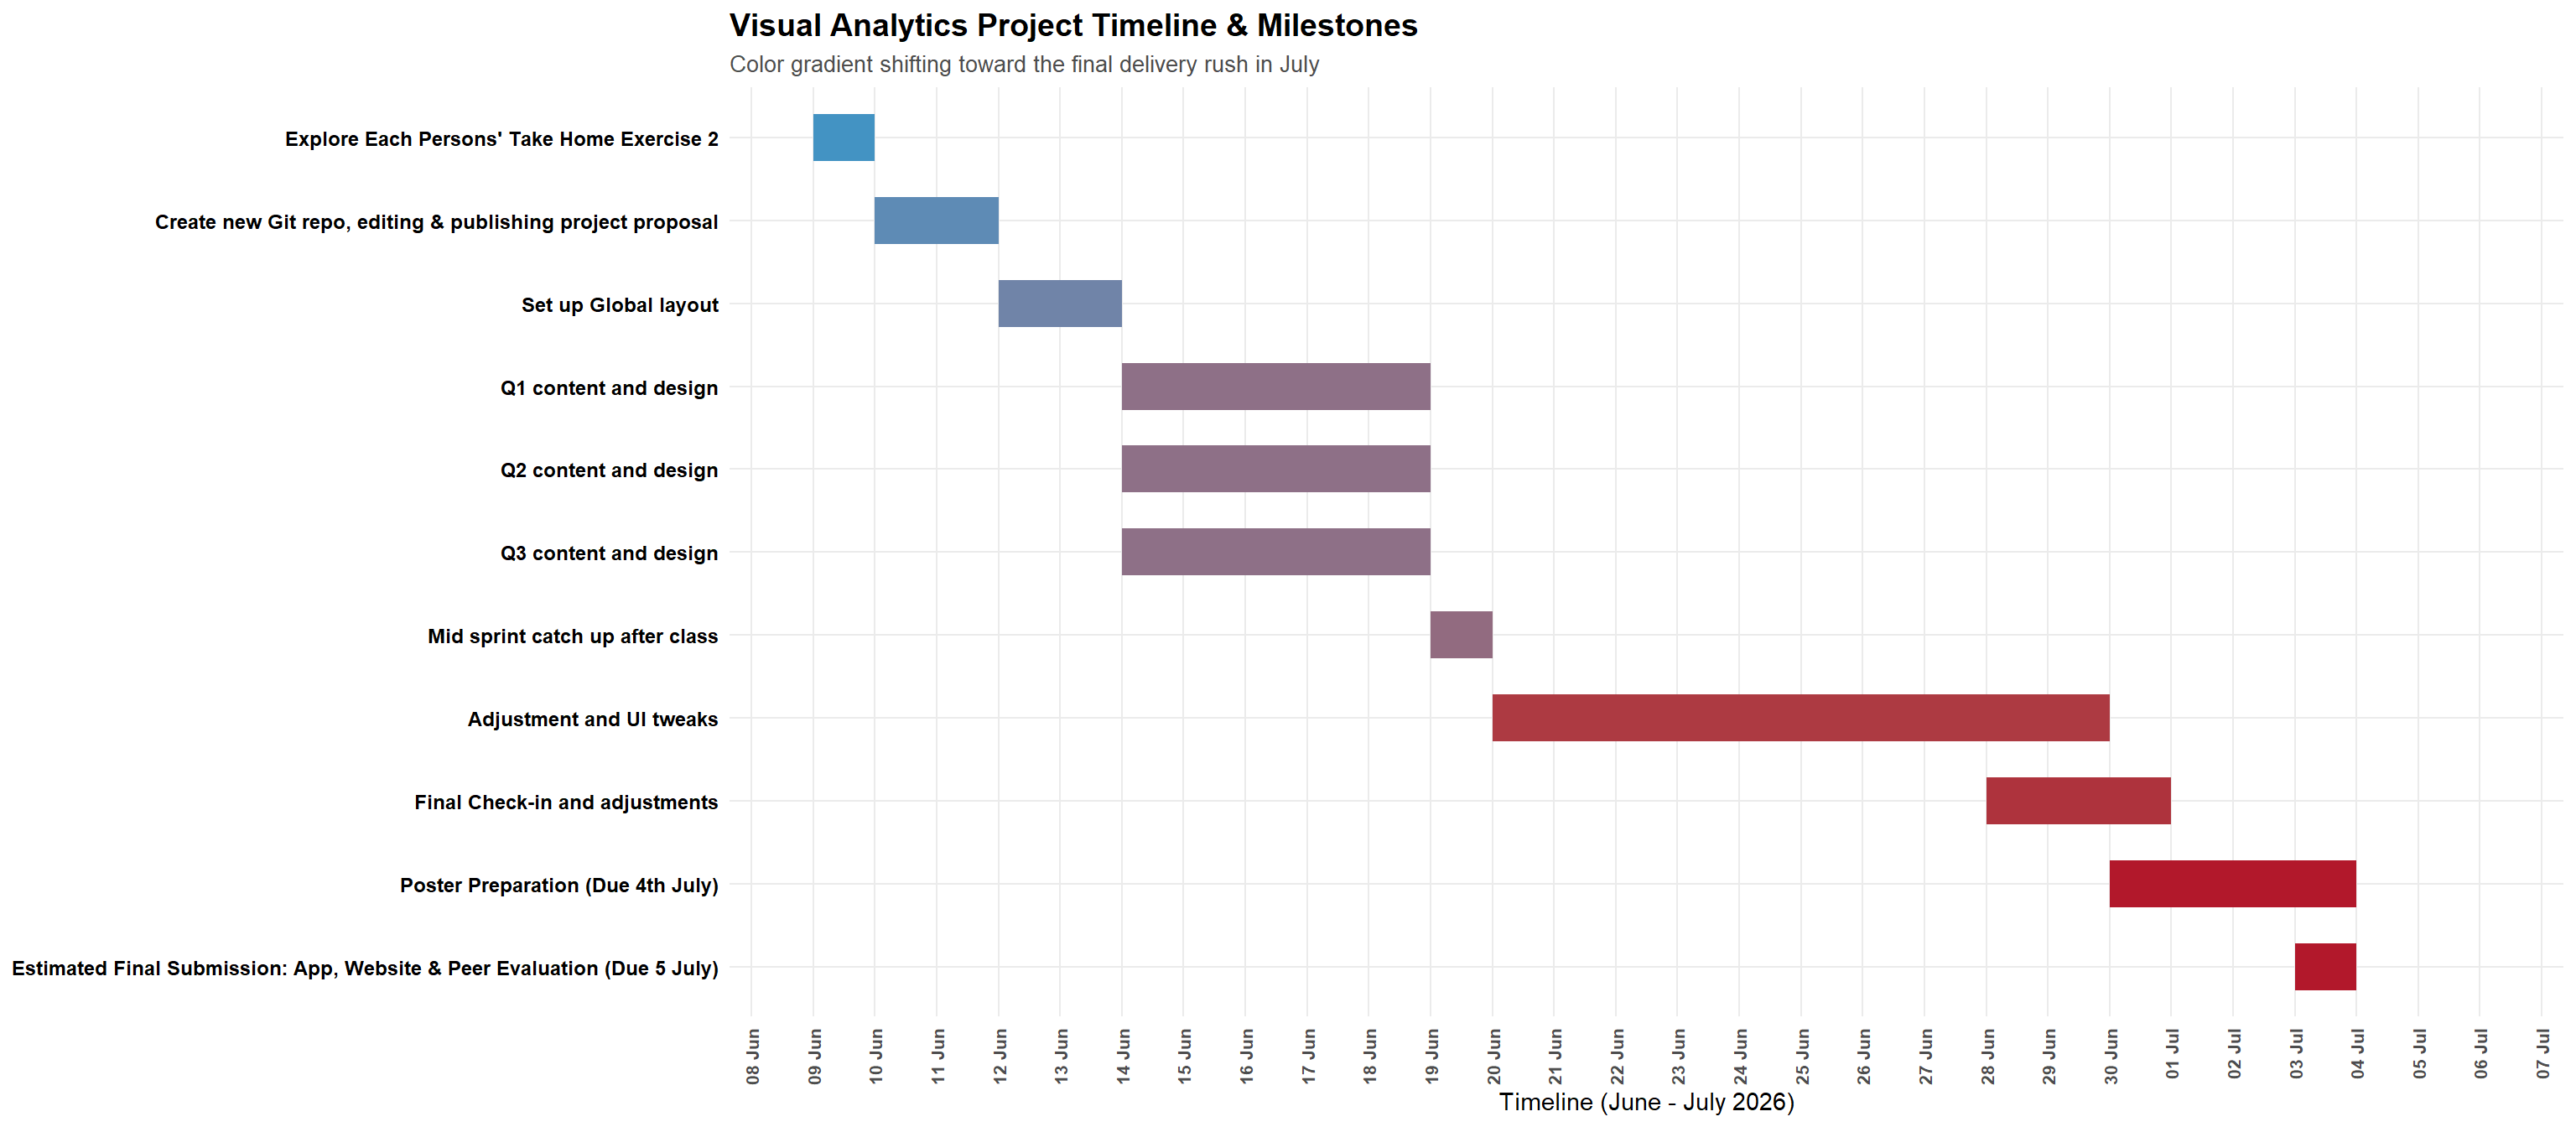
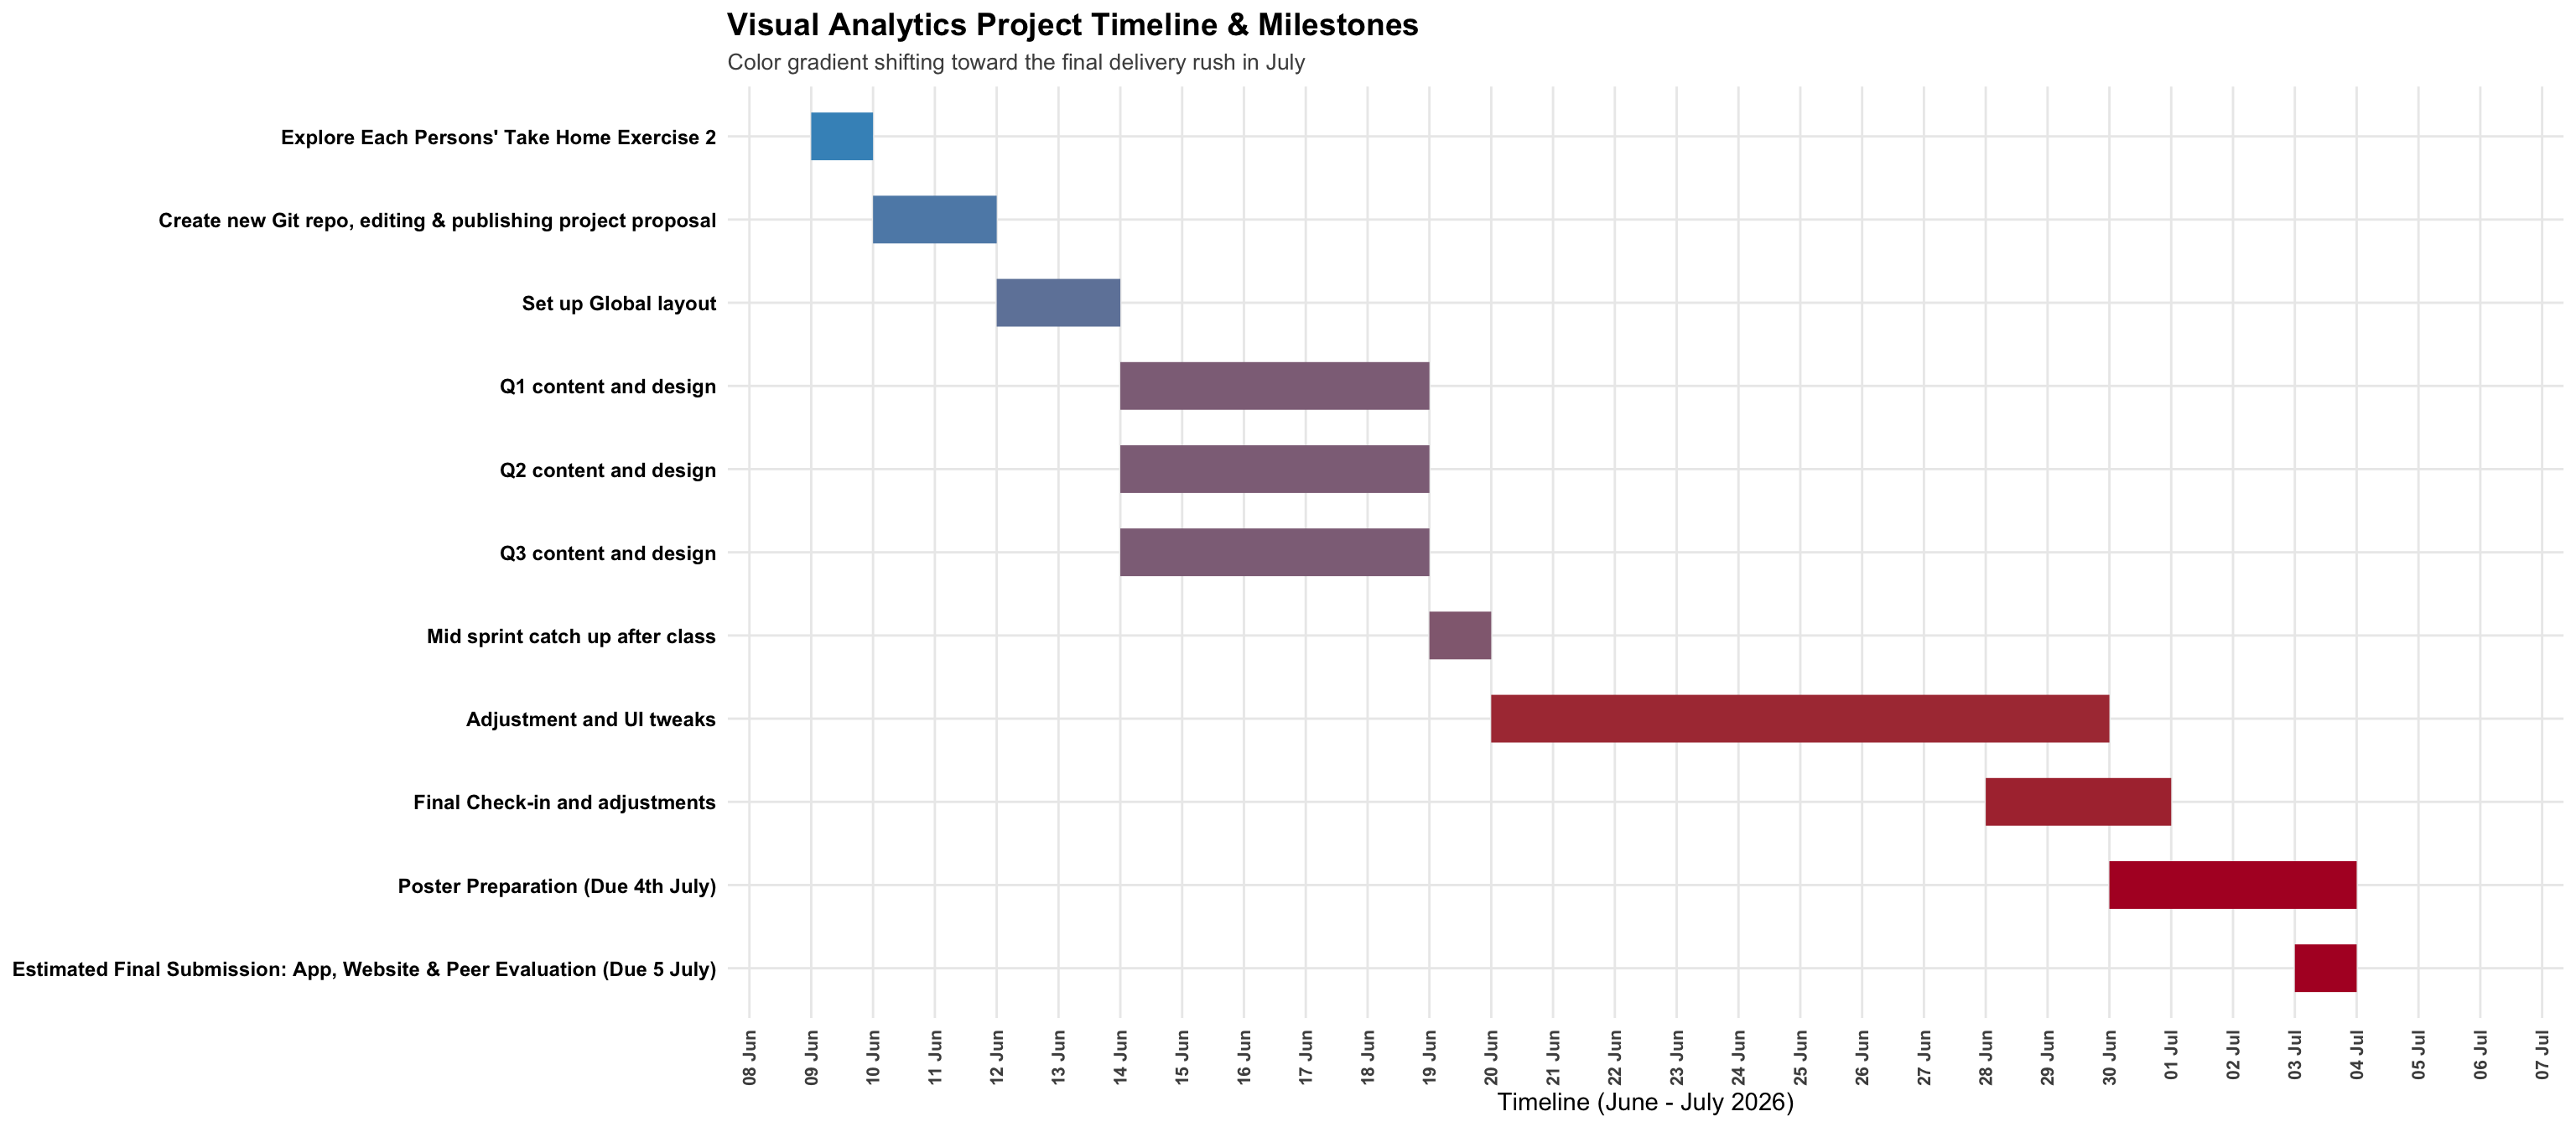
Added in the first meeting minutes from 10 June discussion.

diff --git a/docs/index.html b/docs/index.html
@@ -42,7 +42,7 @@ ul.task-list li input[type="checkbox"] {
 <link href="site_libs/quarto-html/quarto-syntax-highlighting-7f8f88aac4f3542376d5c11b86a4c14d.css" rel="stylesheet" id="quarto-text-highlighting-styles">
 <script src="site_libs/bootstrap/bootstrap.min.js"></script>
 <link href="site_libs/bootstrap/bootstrap-icons.css" rel="stylesheet">
-<link href="site_libs/bootstrap/bootstrap-f7199533a4293d4f23abe1a1e53f7ce7.min.css" rel="stylesheet" append-hash="true" id="quarto-bootstrap" data-mode="light">
+<link href="site_libs/bootstrap/bootstrap-b4b499223ef5e56cd2d4017a9fc608c0.min.css" rel="stylesheet" append-hash="true" id="quarto-bootstrap" data-mode="light">
 <script id="quarto-search-options" type="application/json">{
   "location": "navbar",
   "copy-button": false,
@@ -120,11 +120,19 @@ ul.task-list li input[type="checkbox"] {
 </i> 
 <span class="menu-text">Poster</span></a>
   </li>  
-  <li class="nav-item">
-    <a class="nav-link" href="./Meeting_Minutes.qmd"> <i class="bi bi-journal-text" role="img">
+  <li class="nav-item dropdown ">
+    <a class="nav-link dropdown-toggle" href="#" id="nav-menu-meeting-minutes" role="link" data-bs-toggle="dropdown" aria-expanded="false">
+      <i class="bi bi-journal-text" role="img">
 </i> 
-<span class="menu-text">Meeting Minutes</span></a>
+ <span class="menu-text">Meeting Minutes</span>
+    </a>
+    <ul class="dropdown-menu" aria-labelledby="nav-menu-meeting-minutes">    
+        <li>
+    <a class="dropdown-item" href="./Meeting_Minutes_Day1.html">
+ <span class="dropdown-text">10 June 2026</span></a>
   </li>  
+    </ul>
+  </li>
 </ul>
             <ul class="navbar-nav navbar-nav-scroll ms-auto">
   <li class="nav-item">
@@ -207,7 +215,7 @@ ul.task-list li input[type="checkbox"] {
 <li>Javier</li>
 <li>Michelle</li>
 </ul>
-<p>Guided by <strong>Professor Kam Tin Seong</strong>. ```</p>
+<p>Guided by <strong>Professor Kam Tin Seong</strong></p>
 
 
 </section>